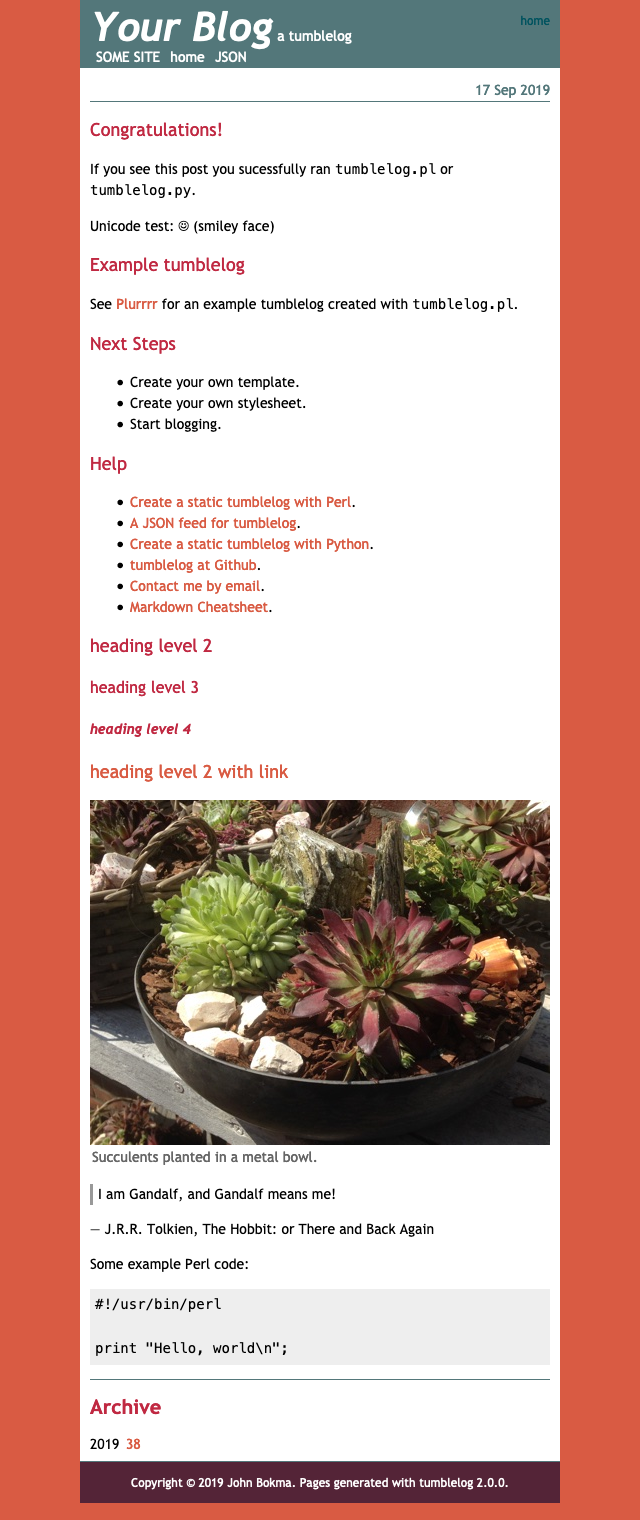
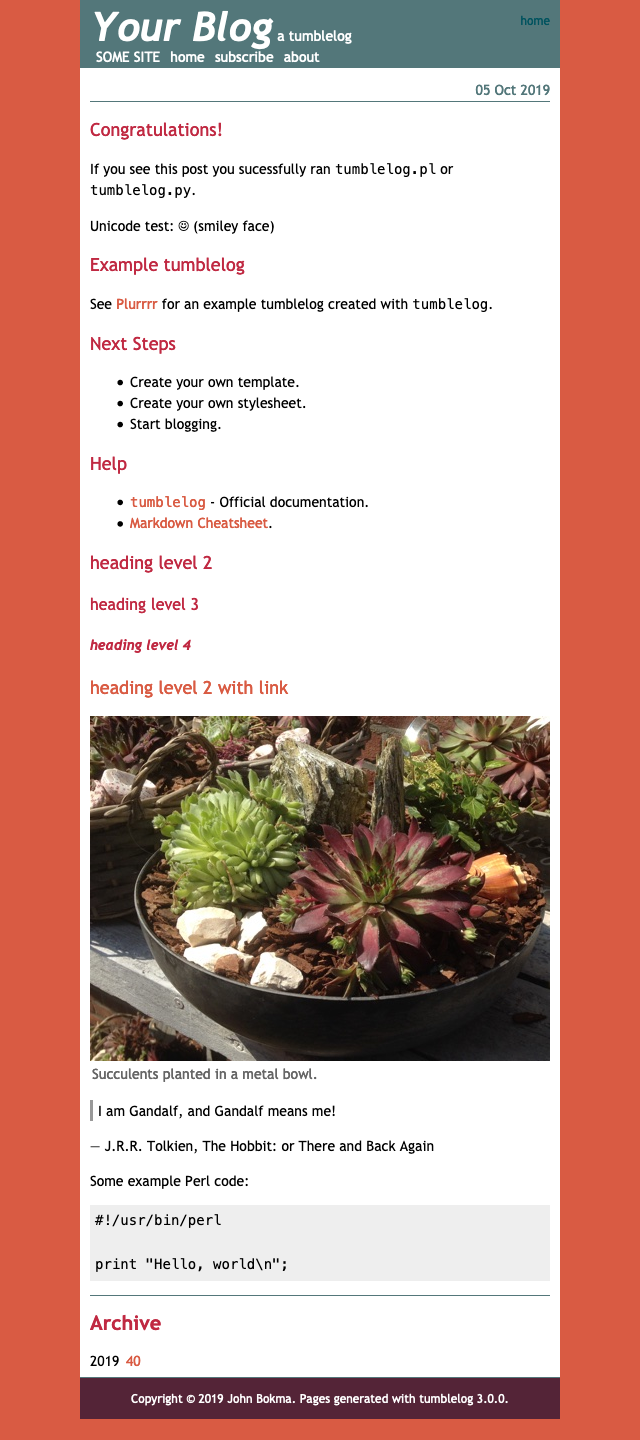
Add support for generating non-blog pages

Changed region(s): [[0.125, 0.0, 0.875, 1.0], [0.7188, 0.0312, 0.875, 0.0938]]

diff --git a/tumblelog.html b/tumblelog.html
@@ -31,8 +31,8 @@
           <ul class="tl-navigation">
             <li><a href="http://example.com/">SOME SITE</a></li>
             <li><a href="/">home</a></li>
-            <li><a href="[% rss-feed-url %]" title="RSS feed">RSS</a></li>
-            <li><a href="[% json-feed-url %]" title="JSON feed">JSON</a></li>
+            <li><a href="/subscribe.html">subscribe</a></li>
+            <li><a href="/about.html">about</a></li>
           </ul>
         </nav>
       </header>
@@ -47,7 +47,7 @@
         Copyright &copy; [% year-range %] [% author %].
         Pages generated with
         <a
-          href="http://johnbokma.com/blog/2019/03/30/tumblelog-perl.html"
+          href="http://johnbokma.com/articles/tumblelog/"
         >tumblelog [% version %]</a>.
       </footer>
     </div>

diff --git a/styles/_tumblelog.scss b/styles/_tumblelog.scss
@@ -89,6 +89,11 @@ main {
     }
 }
 
+.tl-topbar {
+    height: 21px;
+    border-bottom: $border;
+}
+
 article {
     h2, h3, h4 {
         color: $heading-color;

diff --git a/tumblelog.py b/tumblelog.py
@@ -18,7 +18,12 @@ from pathlib import Path
 from datetime import datetime
 from collections import defaultdict, deque
 
-VERSION = '2.5.0'
+VERSION = '3.0.0'
+
+RE_DATE_TITLE = re.compile(r'(\d{4}-\d{2}-\d{2})\s(.*?)\n(.*)', flags=re.DOTALL)
+RE_AT_PAGE_TITLE = re.compile(
+    r'@([a-z0-9_-]+)\[(.+)\]\s+(\d{4}-\d{2}-\d{2})(!?)\s(.*?)\n(.*)',
+    flags=re.DOTALL)
 
 RE_TITLE           = re.compile(r'(?x) \[% \s* title         \s* %\]')
 RE_YEAR_RANGE      = re.compile(r'(?x) \[% \s* year-range    \s* %\]')
@@ -38,8 +43,8 @@ RE_ARCHIVE         = re.compile(r'(?x) \[% \s* archive       \s* %\] \n')
 class NoEntriesError(Exception):
     """Thrown in case there are no blog entries; the file is empty"""
 
-class NoDateSpecified(Exception):
-    """Thrown in case the first blog entry has no date"""
+class BadEntry(Exception):
+    """Thrown in case the blog entry can not be handled"""
 
 def join_year_week(year, week):
     return f'{year:04d}-{week:02d}'
@@ -67,28 +72,50 @@ def read_tumblelog_entries(filename):
 
     return entries
 
-def collect_days(entries):
-    pattern = re.compile(r'(\d{4}-\d{2}-\d{2})(.*?)\n(.*)', flags=re.DOTALL)
-    date = None
+def collect_days_and_pages(entries):
+
     days = deque()
+    pages = deque()
+    state = 'unknown'
+
     for entry in entries:
-        match = pattern.match(entry)
+        match = RE_DATE_TITLE.match(entry)
         if match:
-            date = match.group(1)
             days.append({
-                'date': date,
+                'date': match.group(1),
                 'title': match.group(2).strip(),
-                'entries': []
+                'entries': [match.group(3)]
             })
-            entry = match.group(3)
-        if date is None:
-            raise NoDateSpecified('No date specified for first tumblelog entry')
+            state = 'date-title'
+            continue
 
-        days[-1]['entries'].append(entry)
+        match = RE_AT_PAGE_TITLE.match(entry)
+        if match:
+            pages.append({
+                'name': match.group(1),
+                'label': match.group(2).strip(),
+                'date': match.group(3),
+                'show-date': match.group(4) == '!',
+                'title': match.group(5).strip(),
+                'entries': [match.group(6)]
+            })
+            state = 'at-page-title'
+            continue
 
-    days = sorted(days, key=itemgetter('date'), reverse=True)
+        if state == 'date-title':
+            days[-1]['entries'].append(entry)
+            continue
 
-    return days
+        if state == 'at-page-title':
+            pages[-1]['entries'].append(entry)
+            continue
+
+        raise BadEntry('No date or page specified for first tumblelog entry')
+
+    days  = sorted(days,  key=itemgetter('date'), reverse=True)
+    pages = sorted(pages, key=itemgetter('date'), reverse=True)
+
+    return days, pages
 
 def create_archive(days):
 
@@ -218,16 +245,6 @@ def html_for_entry(entry):
         '</article>\n'
     ])
 
-def label_and_title(day, config):
-    label = parse_date(day['date']).strftime(config['date-format'])
-    title = day['title']
-    if title:
-        title = ' - '.join([title, config['name']])
-    else:
-        title = ' - '.join([config['name'], label])
-
-    return label, title
-
 def create_page(path, title, body_html, archive_html, config,
                 label, min_year, max_year):
     if min_year == max_year:
@@ -280,7 +297,6 @@ def create_index(days, archive, config, min_year, max_year):
     archive_html = html_for_archive(
         archive, None, 'archive', config['label-format'])
 
-    Path(config['output-dir']).mkdir(parents=True, exist_ok=True)
     create_page(
         'index.html', 'home', body_html, archive_html, config,
         'home', min_year, max_year
@@ -292,8 +308,7 @@ def create_week_page(year_week, body_html, archive, config, min_year, max_year):
         archive, year_week, '../..', config['label-format'])
 
     year, week = split_year_week(year_week)
-    label = year_week_label(config['label-format'], year, week)
-    title = ' - '.join([config['name'], label])
+    title = year_week_title(config['label-format'], year, week)
 
     path = f'archive/{year}/week'
     Path(config['output-dir']).joinpath(path).mkdir(
@@ -351,6 +366,29 @@ def create_day_and_week_pages(days, archive, config, min_year, max_year):
         year_week, week_body_html, archive, config,
         min_year, max_year
     )
+
+def create_pages(pages, archive, config, min_year, max_year):
+
+    archive_html = html_for_archive(
+        archive, None, 'archive', config['label-format']) if archive else ''
+
+    for page in pages:
+        date = page['date']
+        link_text = escape(parse_date(date).strftime(config['date-format']))
+        if page['show-date']:
+            body_html = (
+                f'<time class="tl-date" datetime="{date}">{link_text}</time>\n')
+        else:
+            body_html = '<div class="tl-topbar"></div>\n'
+
+        for entry in page['entries']:
+            body_html += html_for_entry(entry)
+
+        create_page(
+            f"{page['name']}.html",
+            page['title'], body_html, archive_html, config,
+            page['label'], min_year, max_year
+        )
 
 def get_url_title_description(day, config):
 
@@ -462,19 +500,37 @@ def create_json_feed(days, config):
     if not config['quiet']:
         print(f"Created '{feed_path}'")
 
-def create_blog(config):
-    days = collect_days(read_tumblelog_entries(config['filename']))
+def get_min_max_year(days, pages):
+    min_year = 10_000
+    max_year = -1
 
-    max_year = (split_date(days[0]['date']))[0]
-    min_year = (split_date(days[-1]['date']))[0]
+    if days:
+        min_year = (split_date(days[-1]['date']))[0]
+        max_year = (split_date(days[0]['date']))[0]
+
+    if pages:
+        min_year = min(min_year, (split_date(pages[-1]['date']))[0])
+        max_year = max(min_year, (split_date(pages[0]['date']))[0])
+
+    return min_year, max_year
+
+def create_blog(config):
+    days, pages = collect_days_and_pages(read_tumblelog_entries(
+        config['filename']))
+
+    min_year, max_year = get_min_max_year(days, pages)
+
+    Path(config['output-dir']).mkdir(parents=True, exist_ok=True)
 
     archive = create_archive(days)
+    if days:
+        create_index(days, archive, config, min_year, max_year)
+        create_day_and_week_pages(days, archive, config, min_year, max_year)
 
-    create_index(days, archive, config, min_year, max_year)
-    create_day_and_week_pages(days, archive, config, min_year, max_year)
+        create_rss_feed(days, config)
+        create_json_feed(days, config)
 
-    create_rss_feed(days, config)
-    create_json_feed(days, config)
+    create_pages(pages, archive, config, min_year, max_year)
 
 def create_argument_parser():
     usage = """

diff --git a/tumblelog.md b/tumblelog.md
@@ -1,4 +1,4 @@
-2019-09-17 Congratulations!
+2019-10-05 Congratulations!
 ## Congratulations!
 If you see this post you sucessfully ran `tumblelog.pl` or `tumblelog.py`.
 
@@ -6,7 +6,7 @@ Unicode test: ☺ (smiley face)
 %
 ## Example tumblelog
 See [Plurrrr](http://plurrrr.com/) for an example tumblelog created
-with `tumblelog.pl`.
+with `tumblelog`.
 %
 ## Next Steps
 
@@ -16,14 +16,8 @@ with `tumblelog.pl`.
 %
 ## Help
 
-- [Create a static tumblelog with Perl](http://johnbokma.com/blog/2019/03/30/tumblelog-perl.html).
--
-  [A JSON feed for tumblelog](http://johnbokma.com/blog/2019/04/03/a-json-feed-for-tumblelog.html).
-- [Create a static tumblelog with Python](http://johnbokma.com/blog/2019/04/07/tumblelog-python.html).
-- [tumblelog at Github](https://github.com/john-bokma/tumblelog).
-- [Contact me by email](http://johnbokma.com/email.html).
-- [Markdown Cheatsheet](
-https://github.com/adam-p/markdown-here/wiki/Markdown-Cheatsheet).
+- [`tumblelog`](http://johnbokma.com/articles/tumblelog/) - Official documentation.
+- [Markdown Cheatsheet](https://github.com/adam-p/markdown-here/wiki/Markdown-Cheatsheet).
 %
 ## heading level 2
 ### heading level 3
@@ -46,4 +40,17 @@ Some example Perl code:
 
 print "Hello, world\n";
 ```
+%
+@about[about] 2019-10-05! About
+
+## About
+
+Write something about your tumblelog, yourself, etc.
+
+%
+@subscribe[subscribe] 2019-10-05 Subscribe
+## Subscribe
+
+This tumblelog has two feeds: an [RSS feed](/feed.rss) and a [JSON
+feed](/feed.json). Thank you for subscribing!
 %

diff --git a/README.md b/README.md
@@ -21,9 +21,25 @@ Parameters to control the blog are given via command line
 arguments. The program creates the blog HTML5 pages and both a JSON
 and RSS feed.
 
-## Examples
+For example:
 
-![A screenshot of the four styles that come with tumblelog](https://repository-images.githubusercontent.com/178557390/b0ba5e80-d991-11e9-9022-c061e713a9ad)
+```
+perl tumblelog.pl --template-filename tumblelog.html --output-dir htdocs/ \
+     --author 'Your Name' --name 'Your Blog' --description 'Your Description' \
+     --blog-url 'http://example.com/' --css soothe.css tumblelog.md
+```
+
+If you have Python 3 installed you can run a simple webserver inside
+`htdocs` and view the generated site by entering
+http://localhost:8000/ in your browser:
+
+```
+python3 -m http.server
+```
+
+## Style Examples
+
+![A screenshot of the four styles that come with tumblelog](https://repository-images.githubusercontent.com/178557390/30c42f00-e7ae-11e9-839d-d6bd6faa6e48)
 
 A screenshot of the four styles that come with tumblelog.
 

diff --git a/CHANGELOG.md b/CHANGELOG.md
@@ -1,5 +1,30 @@
 # Change Log
 
+## [3.0.0] - 2019-10-05
+
+This version adds the ability to create non-blog pages, for example an *about* page, and a *subscription page*. It should even be possible to create a micro site this way, without a blog. The syntax for the non-blog page marker is as follows:
+
+```
+@PAGE[LABEL] YYYY-MM-DD TITLE
+```
+
+With:
+
+ - PAGE - the filename of the page without the `.html` extension
+ - LABEL - the label of the page
+ - YYYY-MM-DD - the date the page was updated
+ - TITLE - The title of the page
+
+For example:
+
+```
+@subscribe[subscribe] 2019-10-05 Subscribe
+```
+
+If the date is immediately followed by an exclamation mark the date is also shown on the generated HTML page.
+
+Page titels are no longer generated by gluing the blog name and the title together; if you want the blog name in the HTML you have to add it to the template.
+
 ## [2.5.0] - 2019-10-02
 
 Add an RSS feed
